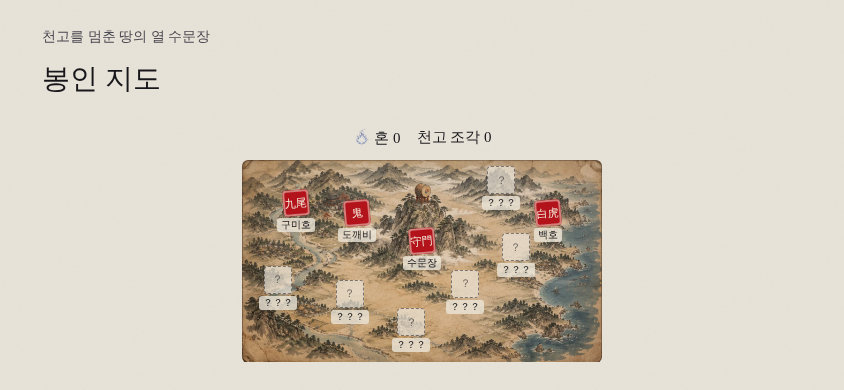
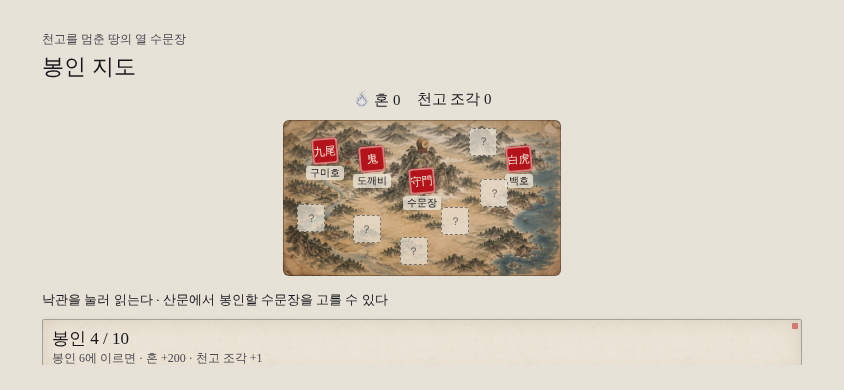
보부상 stands at the rest-stage stall; HUD chips and the 기력 panel sit on a painted hanji plate; pet and props regraded to the ink world but kept readable; seal under 천고 on top; camera no longer shows paper below the ground; boards fit short landscape screens; dead 수련 깨치기 and 주모 code removed; 고른 숨 now d
Claude-Session: https://claude.ai/code/session_01Rc1cVb1vkCQfdutHoe7fgf

diff --git a/js/game.js b/js/game.js
@@ -2,7 +2,7 @@
 (() => {
 "use strict";
 const T = 32;
-const ASSET_V = "142";   // bump when any picture changes: the service worker then fetches the new json and webp together
+const ASSET_V = "143";   // bump when any picture changes: the service worker then fetches the new json and webp together
 const $ = id => document.getElementById(id);
 const cv = $("cv"); let ctx = cv.getContext("2d", { alpha: false });   // let: the ground is baked by pointing ctx at an offscreen canvas for a moment   // opaque canvas: cheaper to composite on phones
 let W = 0, H = 0, DPR = 1, SCALE = 1;
@@ -181,7 +181,6 @@ CHOSIK_BY = Object.fromEntries(CHOSIK.map(c => [c.id, c]));
 const nodeOf = id => CHOSIK.find(c => c.id === id && c.tree);
 const treeNodesHeld = () => (run.perks || []).filter(id => nodeOf(id));
 // 서고 수련: 0 → 3단까지, 1 → 4단까지, 2 → 합류까지 (META.treeOpen[weapon] counts what has been learned)
-const TREE_OPEN = [{ hon: TUNING.TREE_OPEN_HON[0], ms: 0, name: "3단 깨치기", desc: "모든 무기의 갈래마다 둘 중 하나를 고르는 3단이 열린다" }, { hon: TUNING.TREE_OPEN_HON[1], ms: 1, name: "4단 깨치기", desc: "모든 무기의 3단 뒤 4단이 열린다 (어느 무기든 숙련 1)" }, { hon: TUNING.TREE_OPEN_HON[2], ms: 2, name: "합류 깨치기", desc: "모든 무기에서 이웃한 두 갈래를 잇는 합류가 열린다 (어느 무기든 숙련 2)" }];
 const treeOpen = () => 3;   // every step of every tree is open from the first run (the 서고 that sold them is gone)   // learned once for every weapon (older saves: the furthest any weapon got)
 // 천고난무-오의: taking a branch's last step (4단) in this run turns the plain 천고난무 into the weapon's 오의 (and grants that branch's 오의 node)
 const ougiOpen = () => !!(run && run.ougiId);
@@ -350,7 +349,7 @@ function bossSheets(kind) { const B = BOSSES[kind]; if (!B) return []; const out
 // 로딩: nothing starts until the pictures it needs are in — a bar fills while they arrive, and a word of advice turns over
 const LD_TIPS = ["원이 점으로 닫히는 순간 베면 간파 — 무엇이든 한 번에 쓰러진다", "벽에 붙어 점프하면 벽차기, 벽차기 뒤엔 한 번 더 뛸 수 있다", "대시를 길게 누르면 무아경 — 시간이 느려지고 겨눈 곳으로 벤다",
   "북 다섯이 차면 천고난무 — 한 갈래를 끝(4단)까지 익히면 오의가 된다", "우두머리가 반짝이면 틈이다 — 그때 몰아쳐라", "땅이 붉게 갈라지면 곧 무언가 솟는다", "낭떠러지에 떨어져도 관문마다 한 번은 딛던 곳으로 돌아온다",
-  "막 휘두르면 날이 무뎌진다 — 손을 잠깐 쉬면 돌아온다", "총은 탄이 있으면 언제든 나간다 — 간파로 맞히면 탄이 다시 찬다", "쉼터에서는 숨을 고를 수 있다", "기세가 오를수록 장단도 빨라진다", "관문 과제를 이루면 등급이 오른다"];
+  "막 휘두르면 날이 무뎌진다 — 손을 잠깐 쉬면 돌아온다", "총은 탄이 있으면 언제든 나간다 — 간파로 맞히면 탄이 다시 찬다", "쉼터의 보부상에게 엽전으로 숨을 살 수 있다", "적을 여섯 할 넘게 베어야 출구 결계가 풀린다", "기세가 오를수록 장단도 빨라진다", "관문 과제를 이루면 등급이 오른다"];
 let ldTipT = null;
 function ldShow(el) { el.classList.remove("out"); el.hidden = false; const tip = $("ldTip"); if (!tip || ldTipT) return; let i = (Math.random() * LD_TIPS.length) | 0;
   const next = () => { tip.classList.add("fade"); setTimeout(() => { tip.textContent = LD_TIPS[i++ % LD_TIPS.length]; tip.classList.remove("fade"); }, 350); };
@@ -1427,7 +1426,7 @@ function routeTrail() { // the road so far drawn as a line of seals above the ca
 }
 function stepOn() { run.m++; run.choosing = null; saveRun(); nextStep(); }
 // the people on the road: who stands in the 쉼터 or the 기연, and what they say
-const NPC = { jumo: { i: 0, name: "주모", flip: true, line: "어서 오시오. 먼 길 오셨구려, 쉬었다 가시오." }, monk: { i: 1, name: "노승", line: "검이 무겁구나. 시험 하나 받아 보겠느냐." },
+const NPC = { monk: { i: 1, name: "노승", line: "검이 무겁구나. 시험 하나 받아 보겠느냐." },
   dok: { i: 2, name: "도깨비", line: "히히, 한 판 걸어 보련? 숨 내기다!" }, mudang: { i: 3, name: "무당", line: "저 무덤에 칼 한 자루가 잠들어 있소. 주인을 기다리지." },
   seonbi: { i: 4, name: "떠돌이 선비", line: "피로 쓴 글이오. 숨 하나면 이 비결을 다 읽을 수 있지." }, spring: { i: 7, name: "약수", line: "맑은 물이 솟는다." } };
 const EVENT_NPC = { blood: "seonbi", dok: "dok", grave: "mudang", monk: "monk", well: "spring", market: "dok" };
@@ -1436,7 +1435,7 @@ function buildRoadMap() { const rows = []; for (let y = 0; y < 16; y++) rows.pus
 function setupRoad() { // the small road stage: set dressing, one person to talk to, a gate out on the right
   const put = (sheet, i, tx, h, flip) => LV.dress.push({ sheet, i, x: tx * T + 16, y: 12 * T + 2, h, flip: !!flip, ay: 1 });
   let who;
-  if (run.node === "rest") { put("npc", 6, 9, 112); put("npc", 7, 26, 52); put("props2", P2.brazier, 5, 34); put("props2", P2.sacks, 17, 34); put("props2", P2.rack, 21, 44);   // 쉼터: no free rest now — the 보부상 sells breath for 엽전
+  if (run.node === "rest") { put("npc", 6, 9, 112); put("npc", 7, 26, 52); put("npc", 9, 19, 74); put("props2", P2.brazier, 5, 34); put("props2", P2.sacks, 17, 34); put("props2", P2.rack, 21, 44);   // 쉼터: no free rest now — the 보부상 sells breath for 엽전
     LV.stations = [{ id: "shop", tx: 19, h: 48, name: "보부상", act: "장터" }]; return; }
   else { const ev = run.eventId || "well"; who = EVENT_NPC[ev]; put("npc", 8, 11, 100); put("props", PROP.stoneLantern, 25, 44); if (who !== "spring") put("props", PROP.jars, 6, 30); }
   const n = NPC[who]; put("npc", n.i, 19, who === "spring" ? 54 : 64, n.flip); LV.stations = [{ id: "npc", who, tx: 19, h: 64, name: n.name, act: run.talked ? "인사" : "이야기" }];
@@ -1446,17 +1445,8 @@ function resumeStage() { state = "play"; showScreen(null); Music.resume(); hubNe
 function stageAct(st) {
   if (st.id === "shop") return shopScreen("보부상 장터", "엽전은 이 판에서만 쓴다", 1, resumeStage);
   const n = NPC[st.who];
-  if (run.talked) { toast(`${n.name} · ${run.node === "rest" ? "또 오시오." : "갈 길 가시오."}`); return; }
+  if (run.talked) { toast(`${n.name} · 갈 길 가시오.`); return; }
   run.talked = true; saveRun();
-  if (run.node === "rest") return pickScreen(n.name, n.line, [
-    { id: "breath", name: "숨 고르기", han: "息", desc: "숨 하나를 되찾는다" },
-    { id: "qi", name: "북 다듬기", han: "鼓", desc: "다음 관문을 천고 기운 가득 차서 시작한다" },
-    { id: "hon", name: "주막 일손", han: "役", desc: "혼 +15 · 대신 숨은 고르지 못한다" }], it => {
-    run.gather = 1;   // while you rest, the road ahead gathers guards
-    if (it.id === "hon") { run.honBonus = (run.honBonus || 0) + 15; toast("혼 +15 · 그사이 다음 관문에 적이 모였다"); saveRun(); resumeStage(); return; }
-    if (it.id === "breath") { run.breath = Math.min(breathCap(), run.breath + TUNING.REST_BREATH + (META.well && META.well.includes("rest1") ? 1 : 0)); toast(`숨 ${run.breath} · 그사이 다음 관문에 적이 모였다`); saveRun(); setHud(); resumeStage(); }
-    else if (it.id === "qi") { run.qiStart = 100; saveRun(); toast("북을 다듬었다 · 다음 관문은 기운 가득"); resumeStage(); }
-    else { run.cleared = "rest"; saveRun(); showChoice("stage"); } });
   const ev = EVENTS.find(e => e.id === run.eventId) || EVENTS[4];
   pickScreen(n.name, n.line, [ev.ok() ? ev : { ...ev, desc: "지금은 할 수 없다", go: () => resumeStage() }, { id: "pass", name: "지나친다", han: "行", desc: "아무것도 하지 않는다", calm: true, go: () => resumeStage() }], it => it.go());
 }
@@ -1474,7 +1464,7 @@ function addCoin(n, x, y) { if (!run || mode === "tutorial" || run.hub || !n) re
 const treasure = id => !!(run && run.treasure === id);
 // wares: consumables act at once; one 보물 is carried for the rest of the run (a new one replaces it). `hon` = opened at the 대장간 first
 const WARES = [
-  { id: "pill", name: "환약", han: "丸藥", desc: "숨 하나를 되찾는다 (살 때마다 비싸진다)", price: () => 25 + 15 * (run.pillN || 0), ok: () => run.breath < breathCap(), go: () => { run.breath++; run.pillN = (run.pillN || 0) + 1; setHud(); } },
+  { id: "pill", name: "환약", han: "丸藥", desc: "숨 하나를 되찾는다 (살 때마다 비싸진다)", price: () => 25 + 15 * (run.pillN || 0) - (META.well && META.well.includes("rest1") ? 10 : 0), ok: () => run.breath < breathCap(), go: () => { run.breath++; run.pillN = (run.pillN || 0) + 1; setHud(); } },
   { id: "charm", name: "부적", han: "符", desc: "다음 한 대를 막는다 (둘까지 지닌다)", price: 22, ok: () => (run.charm || 0) < 2, go: () => { run.charm = (run.charm || 0) + 1; } },
   { id: "sp", name: "수련서", han: "修鍊書", desc: "수련점 하나 (살 때마다 비싸진다)", price: () => 60 + 30 * (run.spBought || 0), ok: () => true, go: () => { run.sp = (run.sp || 0) + 1; run.spBought = (run.spBought || 0) + 1; } },
   { id: "powder", name: "화약통", han: "火藥", desc: "다음 관문을 천고 기운 가득 차서 시작한다", price: 25, hon: 60, ok: () => !run.qiStart, go: () => { run.qiStart = 100; } },
@@ -1559,7 +1549,6 @@ function nextGoal() { // the cheapest thing still locked in the 거점, and how 
   if (sealedN() < 10) c.push([0, `봉인 지도 ${sealedN()} / 10 · 산문에서 봉인할 수문장을 고른다`]);
   { const t = TREE_ALT[treeKey && run ? treeKey() : "hwando"] || TREE_ALT.hwando, nx = Object.values(t).flat().find(o => !(META.alts || []).includes(o.id)); if (nx) c.push([ALT_HON, `수련 후보 · ${nx.name}`]); }
   for (const [id, w] of Object.entries(WEAPONS)) if (w.cost && !w.ch && !META.weapons.includes(id)) c.push([w.cost, `무기 · ${w.name}`]);
-  const t = TREE_OPEN[treeOpen()]; if (t) c.push([t.hon, `수련 · ${t.name}`]);
   c.sort((a, b) => a[0] - b[0]); const g = c[0]; if (!g) return null;
   return META.hon >= g[0] ? `${g[1]} — 지금 거점에서 열 수 있다` : `${g[1]} — 혼 ${g[0] - META.hon} 더`;
 }
@@ -3562,6 +3551,14 @@ function bakeGround(gc, key, c, CW, top, hh, k, pal, ssn) { // paint one chunk o
   gc.set(key + "#" + c, { cv: cvs, used: performance.now() });
   while (gc.size > (MOBILE ? 4 : 10)) { let old = null; for (const [kk, v] of gc) if (!old || v.used < old[1].used) old = [kk, v]; old[1].cv.width = old[1].cv.height = 0; gc.delete(old[0]); }   // iOS frees canvas memory only when the canvas is emptied   // keep memory small: drop the stalest
 }
+const PLATE = new Image(); PLATE.src = `assets/ui-plate.webp?v=${ASSET_V}`; const INK_T = "#17161a";   // the HUD's hanji plate: ink border, paper inside — the HTML chips use the same picture
+let plateC = null;
+function plate9(x, y, w, h, b = 6) { const I = PLATE, iw = I.naturalWidth, ih = I.naturalHeight, s = 12, k = DPR;   // nine-slice: corners kept, edges and paper stretched — baked once per size
+  if (!plateC || plateC.key !== `${w}x${h}x${k}`) { const c = document.createElement("canvas"); c.width = Math.ceil(w * k); c.height = Math.ceil(h * k); const g = c.getContext("2d"); g.scale(k, k);
+    const sx = [0, s, iw - s, iw], sy = [0, s, ih - s, ih], dx = [0, b, w - b, w], dy = [0, b, h - b, h];
+    for (let i = 0; i < 3; i++) for (let j = 0; j < 3; j++) g.drawImage(I, sx[i], sy[j], sx[i + 1] - sx[i], sy[j + 1] - sy[j], dx[i], dy[j], dx[i + 1] - dx[i], dy[j + 1] - dy[j]);
+    plateC = c; plateC.key = `${w}x${h}x${k}`; }
+  ctx.drawImage(plateC, x, y, w, h); }
 const camView = { x0: 0, y0: 0, x1: 0, y1: 0 }; let padFadeT = 0;
 function render(rdt) {
   if (!paperPat) makePaper();
@@ -3574,7 +3571,7 @@ function render(rdt) {
     cam.x += (tx - cam.x) * f; cam.y += (ty - cam.y) * f;
     const lw = LV.w * T, lh = LV.h * T;
     cam.x = lw <= vw ? lw / 2 : Math.max(vw / 2, Math.min(lw - vw / 2, cam.x));
-    const maxY = lh - vh / 2 + 8; cam.y = Math.min(maxY, Math.max(Math.min(maxY, vh / 2 - 96), cam.y));
+    const maxY = lh - vh / 2; cam.y = Math.min(maxY, Math.max(Math.min(maxY, vh / 2 - 96), cam.y));
     if (PORTRAIT()) { const bottom = LV.hub ? hubRect().y + hubRect().h : lh, off = (H / 2 - padH()) / (SCALE * zoom); cam.y = bottom - off;   // the ground line sits just above the thumbs
       if (!LV.hub && lh > 17 * T) {   // a 마당 that climbs: follow the ground last stood on, so the thumbs keep the same line
         const feet = P.y + P.h; if (LV.camG == null || P.onGround || feet > LV.camG + T) LV.camG = feet; LV.camGs = LV.camGs == null ? LV.camG : LV.camGs + (LV.camG - LV.camGs) * Math.min(1, rdt * 4);
@@ -4405,16 +4402,16 @@ function drawCombatHud(pal) { // 기력 under the 숨, the chain's numeral at th
   drawOugiName(1 / 60);
   const hk = settings.hudK || 1; ctx.setTransform(DPR * hk, 0, 0, DPR * hk, 0, 0);   // 글자·HUD 크기
   if (mode !== "tutorial") { const top = Math.max(50, hudBottom() + 4) / hk, hh = momOn() ? 46 : 24;   // a wash of paper (or night) behind 기력 and 기세, so they read on any ground
-    ctx.fillStyle = pal.night ? "rgba(23,22,26,.55)" : "rgba(230,226,215,.8)"; ctx.beginPath(); if (ctx.roundRect) ctx.roundRect(8, top, 150, hh, 8); else ctx.rect(8, top, 150, hh); ctx.fill(); }
+    if (PLATE.complete && PLATE.naturalWidth) plate9(8, top, 150, hh + 6); else { ctx.fillStyle = "rgba(230,226,215,.85)"; ctx.fillRect(8, top, 150, hh); } }
   if (momOn()) { const v = run.mom || 0, t = momTier(), bx = 52, by = Math.max(72, hudBottom() + 30) / hk, sw = 19, tr = (run.trance || 0) > 0;   // 기세: five brush cells, the tier's numeral beside them
-    ctx.font = `400 ${t ? 17 : 14}px "Song Myung", serif`; ctx.textAlign = "left"; ctx.textBaseline = "middle"; ctx.fillStyle = tr ? SEAL : pal.text; ctx.globalAlpha = .85; ctx.fillText(t ? `${t}단` : "기세", 18, by + 5);
-    for (let i = 0; i < 5; i++) { const fill = Math.max(0, Math.min(1, (v - i * 100) / 100)); ctx.globalAlpha = .18; ctx.fillStyle = pal.text; ctx.fillRect(bx + i * (sw + 2), by, sw, 10);
-      if (fill > 0) { ctx.globalAlpha = .9; ctx.fillStyle = tr ? (Math.floor(performance.now() / 80) % 2 ? SEAL : "#f3c35a") : i >= 3 ? SEAL : pal.text; ctx.fillRect(bx + i * (sw + 2), by, sw * fill, 10); } }
+    ctx.font = `400 ${t ? 17 : 14}px "Song Myung", serif`; ctx.textAlign = "left"; ctx.textBaseline = "middle"; ctx.fillStyle = tr ? SEAL : INK_T; ctx.globalAlpha = .85; ctx.fillText(t ? `${t}단` : "기세", 18, by + 5);
+    for (let i = 0; i < 5; i++) { const fill = Math.max(0, Math.min(1, (v - i * 100) / 100)); ctx.globalAlpha = .18; ctx.fillStyle = INK_T; ctx.fillRect(bx + i * (sw + 2), by, sw, 10);
+      if (fill > 0) { ctx.globalAlpha = .9; ctx.fillStyle = tr ? (Math.floor(performance.now() / 80) % 2 ? SEAL : "#f3c35a") : i >= 3 ? SEAL : INK_T; ctx.fillRect(bx + i * (sw + 2), by, sw * fill, 10); } }
     ctx.globalAlpha = 1;
     if (t >= 4 || tr) { const g = ctx.createRadialGradient(W / 2, H / 2, Math.min(W, H) * .45, W / 2, H / 2, Math.max(W, H) * .7); g.addColorStop(0, "rgba(195,22,28,0)"); g.addColorStop(1, `rgba(195,22,28,${tr ? .32 : .16})`); ctx.fillStyle = g; ctx.fillRect(0, 0, W, H); } }   // 四 and up: red ink at the edges
   if (mode !== "tutorial") { const ki = Math.max(0, Math.min(1, P.ki ?? 1)), bx = 18, by = Math.max(54, hudBottom() + 10) / hk, bw = 100, bh = 12, f = SPR.mech && SPR.mech.f[MECH.bar];
     const low = ki < .25 && Math.sin(performance.now() / 90) > 0;
-    ctx.font = `400 13px "Song Myung", serif`; ctx.fillStyle = pal.text; ctx.globalAlpha = .8; ctx.fillText("기력", bx, by + bh - 1);
+    ctx.font = `400 13px "Song Myung", serif`; ctx.fillStyle = INK_T; ctx.globalAlpha = .8; ctx.fillText("기력", bx, by + bh - 1);
     const x0 = bx + 30;
     if (f) { ctx.globalAlpha = .2; ctx.drawImage(SPR.mech.img, f.x, f.y, f.w, f.h, x0, by, bw, bh);
       ctx.globalAlpha = low ? .5 : 1; ctx.save(); ctx.beginPath(); ctx.rect(x0, by - 4, bw * ki, bh + 8); ctx.clip(); ctx.drawImage(SPR.mech.img, f.x, f.y, f.w, f.h, x0, by, bw, bh); ctx.restore();
@@ -4577,13 +4574,6 @@ function bdRow(title, desc, pic, btnLabel, onBtn, disabled) {
   r.querySelector("b").textContent = title; r.querySelector("small").textContent = desc;
   if (btnLabel) { const b = document.createElement("button"); b.className = "btn"; b.textContent = btnLabel; b.disabled = !!disabled; b.addEventListener("click", onBtn); r.appendChild(b); } else r.appendChild(document.createElement("span"));
   return r;
-}
-function treeOpenScreen() { // 서고: learn the deeper steps of the trees with 혼, once for every weapon (gated by your best mastery)
-  const lv = treeOpen(), nx = TREE_OPEN[lv], ms = Math.max(0, ...Object.keys(WEAPONS).map(w => masteryLv(w)));
-  const rows = [curLine(), ...TREE_OPEN.map((o, i) => bdRow(`${i < lv ? "✓ " : ""}${o.name}`, `${o.desc} — 혼 ${o.hon}`))];
-  rows.push(bdRow(nx ? `다음 · ${nx.name}` : "모두 깨쳤다", nx ? `혼 ${nx.hon}${nx.ms ? ` · 가장 익숙한 무기 숙련 ${ms}/${nx.ms}` : ""}` : "3단·4단·합류가 모든 무기에 열려 있다", null, nx ? "깨치기" : null, () => {
-    META.hon -= nx.hon; META.treeOpen = { ...(META.treeOpen || {}), all: lv + 1 }; saveMeta(); Music.sfx("lantern"); toast(`${nx.name.replace(" 깨치기", "")}을 깨쳤다 · 모든 무기`); treeOpenScreen(); }, !nx || META.hon < nx.hon || ms < nx.ms));
-  board("수련 깨치기", "판에서 수련점으로 익히기 전에, 여기서 먼저 깨쳐 둔다", rows, [["돌아가기", resumeHub]]);
 }
 const curLine = () => { const d = document.createElement("div"); d.className = "bd-cur"; d.innerHTML = `<span><i></i> 혼 ${META.hon}</span><span>천고 조각 ${META.shard}</span>`; return d; };
 const bookCap = () => PERK_MAX;         // 비급 a 비급첩 can hold
@@ -4979,7 +4969,7 @@ const hubDeco = () => (META.deco = META.deco || { own: [], slots: {} });
 const WELL = [
   { id: "start1", name: "맑은 숨", desc: "판을 시작할 때 숨 +1", hon: 90 },
   { id: "cap1", name: "깊은 숨", desc: "숨을 담을 수 있는 그릇 +1", hon: 140 },
-  { id: "rest1", name: "고른 숨", desc: "쉼터에서 숨을 고르면 하나 더", hon: 110 },
+  { id: "rest1", name: "고른 숨", desc: "보부상의 환약이 엽전 10 싸다", hon: 110 },
   { id: "boss1", name: "결전의 숨", desc: "천고대 앞에서 숨을 넷까지 채운다", hon: 160 },
   { id: "start2", name: "트인 숨", desc: "판을 시작할 때 숨 +1 (맑은 숨 다음)", hon: 220, need: "start1" }];
 const well = id => !!(META.well && META.well.includes(id));
@@ -5152,7 +5142,7 @@ function logScreen() { // 플레이 기록: what the last runs looked like, so t
 }
 function hubReady(id) { // a red dot on the board where something can be opened right now
   const bld = b => { const B = BUILDINGS.find(o => o.id === b), nx = B && B.lv[META.bld[b] || 0]; return nx && META.hon >= (nx.hon || 0) && META.shard >= (nx.shard || 0); };
-  if (id === "hall") { const t = TREE_OPEN[treeOpen()], ms = Math.max(0, ...Object.keys(WEAPONS).map(w => masteryLv(w))); return bld("seogo") || bld("sadang") || bld("bigeup") || !!(t && META.hon >= t.hon && ms >= t.ms); }
+  if (id === "hall") return bld("seogo") || bld("bigeup");
   if (id === "forge") return bld("daejang") || bld("uibang") || Object.entries(WEAPONS).some(([w, o]) => o.cost && !o.ch && !META.weapons.includes(w) && META.hon >= o.cost);
   if (id === "well") { const nx = petNextNeed && petNextNeed(); return WELL.some(w => !well(w.id) && (!w.need || well(w.need)) && META.hon >= w.hon) || !!(META.pet && nx && nx.fed && META.pet.fed < nx.fed && (META.sum || 0) > 0); }
   return false;

diff --git a/sw.js b/sw.js
@@ -1,10 +1,10 @@
 // 천고 service worker: network-first for the game files (so updates land on the next launch),
 // cache fallback for offline play, cache-first for Google Fonts.
-const CACHE = "chungo-v157";
+const CACHE = "chungo-v158";
 const ASSETS = "chungo-assets";   // pictures and sound: kept across versions, served at once, refreshed in the background
 const CORE = ["./", "index.html", "manifest.webmanifest",
   "icons/icon-192.png", "icons/icon-512.png", "icons/apple-touch-icon.png"];
-const OPTIONAL = ["assets/far.webp", "assets/mid.webp", "assets/title.webp", "assets/tex-paper.webp", "assets/tex-stone.webp", "assets/tex-giwa.webp", "assets/tex-granite.webp", "assets/tex-slab.webp", "assets/sprites/hero.webp", "assets/sprites/hero.json", "assets/sprites/foes.webp", "assets/sprites/foes.json", "assets/sprites/objects.webp", "assets/sprites/objects.json", "assets/sprites/ui.webp", "assets/sprites/ui.json", "assets/sprites/rogue.webp", "assets/sprites/rogue.json", "assets/sprites/rogue2.webp", "assets/sprites/rogue2.json", "assets/sprites/roguea.webp", "assets/sprites/roguea.json", "assets/sprites/rogue3.webp", "assets/sprites/rogue3.json", "assets/sprites/rogue4.webp", "assets/sprites/rogue4.json", "assets/sprites/foes2.webp", "assets/sprites/foes2.json", "assets/sprites/bossA.webp", "assets/sprites/bossA.json", "assets/sprites/bossB.webp", "assets/sprites/bossB.json", "assets/sprites/bossfx.webp", "assets/sprites/bossfx.json", "assets/sprites/bossC.webp", "assets/sprites/bossC.json", "assets/sprites/bossD.webp", "assets/sprites/bossD.json", "assets/sprites/bossE.webp", "assets/sprites/bossE.json", "assets/sprites/bossF.webp", "assets/sprites/bossF.json", "assets/sprites/hero3.webp", "assets/sprites/hero3.json", "assets/sprites/herofx.webp", "assets/sprites/herofx.json", "assets/sprites/slashfx.webp", "assets/sprites/slashfx.json", "assets/sprites/perkfx.webp", "assets/sprites/perkfx.json", "assets/sprites/weapons.webp", "assets/sprites/weapons.json", "assets/sprites/chars.webp", "assets/sprites/chars.json", "assets/sprites/misc.webp", "assets/sprites/misc.json", "assets/sprites/ic0.webp", "assets/sprites/ic0.json", "assets/sprites/ic1.webp", "assets/sprites/ic1.json", "assets/sprites/ic2.webp", "assets/sprites/ic2.json", "assets/sprites/ic3.webp", "assets/sprites/ic3.json", "assets/sprites/ic4.webp", "assets/sprites/ic4.json", "assets/sprites/ic5.webp", "assets/sprites/ic5.json", "assets/sprites/ic6.webp", "assets/sprites/ic6.json", "assets/sprites/ic7.webp", "assets/sprites/ic7.json", "assets/sprites/ic8.webp", "assets/sprites/ic8.json", "assets/sprites/ic9.webp", "assets/sprites/ic9.json", "assets/sprites/ic10.webp", "assets/sprites/ic10.json", "assets/sprites/ic11.webp", "assets/sprites/ic11.json", "assets/sprites/ic12.webp", "assets/sprites/ic12.json", "assets/sprites/ic13.webp", "assets/sprites/ic13.json", "assets/sprites/ic14.webp", "assets/sprites/ic14.json", "assets/sprites/ic15.webp", "assets/sprites/ic15.json", "assets/sprites/mu.webp", "assets/sprites/mu.json", "assets/sprites/po.webp", "assets/sprites/po.json", "assets/sprites/mfx.webp", "assets/sprites/mfx.json", "assets/sprites/pfx.webp", "assets/sprites/pfx.json", "assets/sprites/vis.webp", "assets/sprites/vis.json", "assets/sprites/guide.webp", "assets/sprites/guide.json", "assets/sprites/mv0.webp", "assets/sprites/mv0.json", "assets/sprites/mv1.webp", "assets/sprites/mv1.json", "assets/sprites/mv2.webp", "assets/sprites/mv2.json", "assets/sprites/arms.webp", "assets/sprites/arms.json", "assets/sprites/bcal.webp", "assets/sprites/bcal.json", "assets/sprites/bvfx.webp", "assets/sprites/bvfx.json", "assets/sprites/bname.webp", "assets/sprites/bname.json", "assets/sprites/mvrun.webp", "assets/sprites/mvrun.json", "assets/sprites/mech.webp", "assets/sprites/mech.json", "assets/sprites/foes3.webp", "assets/sprites/foes3.json", "assets/sprites/kfx.webp", "assets/sprites/kfx.json", "assets/sprites/kring.webp", "assets/sprites/kring.json", "assets/sprites/wfx.webp", "assets/sprites/wfx.json", "assets/sprites/ic16.webp", "assets/sprites/ic16.json", "assets/sprites/grun2.webp", "assets/sprites/grun2.json", "assets/sprites/pet.webp", "assets/sprites/pet.json", "assets/sprites/npc.webp", "assets/sprites/npc.json", "assets/sprites/muz.webp", "assets/sprites/muz.json", "assets/sprites/ogA.webp", "assets/sprites/ogA.json", "assets/sprites/ogB.webp", "assets/sprites/ogB.json", "assets/sprites/hub.webp", "assets/sprites/hub.json", "assets/lore.webp", "assets/hubscene.webp?v=10029700", "assets/ld-bg-wide.webp", "assets/ld-bg-tall.webp", "assets/ld-tower.webp", "assets/ld-hero.webp", "assets/hubground.webp", "assets/sprites/mapobj.webp", "assets/sprites/mapobj.json", "assets/sprites/md0.webp", "assets/sprites/md0.json", "assets/sprites/md1.webp", "assets/sprites/md1.json", "assets/sprites/md2.webp", "assets/sprites/md2.json", "assets/sprites/md3.webp", "assets/sprites/md3.json", "assets/sprites/md4.webp", "assets/sprites/md4.json"];
+const OPTIONAL = ["assets/far.webp", "assets/mid.webp", "assets/title.webp", "assets/tex-paper.webp", "assets/tex-stone.webp", "assets/tex-giwa.webp", "assets/tex-granite.webp", "assets/tex-slab.webp", "assets/sprites/hero.webp", "assets/sprites/hero.json", "assets/sprites/foes.webp", "assets/sprites/foes.json", "assets/sprites/objects.webp", "assets/sprites/objects.json", "assets/sprites/ui.webp", "assets/sprites/ui.json", "assets/sprites/rogue.webp", "assets/sprites/rogue.json", "assets/sprites/rogue2.webp", "assets/sprites/rogue2.json", "assets/sprites/roguea.webp", "assets/sprites/roguea.json", "assets/sprites/rogue3.webp", "assets/sprites/rogue3.json", "assets/sprites/rogue4.webp", "assets/sprites/rogue4.json", "assets/sprites/foes2.webp", "assets/sprites/foes2.json", "assets/sprites/bossA.webp", "assets/sprites/bossA.json", "assets/sprites/bossB.webp", "assets/sprites/bossB.json", "assets/sprites/bossfx.webp", "assets/sprites/bossfx.json", "assets/sprites/bossC.webp", "assets/sprites/bossC.json", "assets/sprites/bossD.webp", "assets/sprites/bossD.json", "assets/sprites/bossE.webp", "assets/sprites/bossE.json", "assets/sprites/bossF.webp", "assets/sprites/bossF.json", "assets/sprites/hero3.webp", "assets/sprites/hero3.json", "assets/sprites/herofx.webp", "assets/sprites/herofx.json", "assets/sprites/slashfx.webp", "assets/sprites/slashfx.json", "assets/sprites/perkfx.webp", "assets/sprites/perkfx.json", "assets/sprites/weapons.webp", "assets/sprites/weapons.json", "assets/sprites/chars.webp", "assets/sprites/chars.json", "assets/sprites/misc.webp", "assets/sprites/misc.json", "assets/sprites/ic0.webp", "assets/sprites/ic0.json", "assets/sprites/ic1.webp", "assets/sprites/ic1.json", "assets/sprites/ic2.webp", "assets/sprites/ic2.json", "assets/sprites/ic3.webp", "assets/sprites/ic3.json", "assets/sprites/ic4.webp", "assets/sprites/ic4.json", "assets/sprites/ic5.webp", "assets/sprites/ic5.json", "assets/sprites/ic6.webp", "assets/sprites/ic6.json", "assets/sprites/ic7.webp", "assets/sprites/ic7.json", "assets/sprites/ic8.webp", "assets/sprites/ic8.json", "assets/sprites/ic9.webp", "assets/sprites/ic9.json", "assets/sprites/ic10.webp", "assets/sprites/ic10.json", "assets/sprites/ic11.webp", "assets/sprites/ic11.json", "assets/sprites/ic12.webp", "assets/sprites/ic12.json", "assets/sprites/ic13.webp", "assets/sprites/ic13.json", "assets/sprites/ic14.webp", "assets/sprites/ic14.json", "assets/sprites/ic15.webp", "assets/sprites/ic15.json", "assets/sprites/mu.webp", "assets/sprites/mu.json", "assets/sprites/po.webp", "assets/sprites/po.json", "assets/sprites/mfx.webp", "assets/sprites/mfx.json", "assets/sprites/pfx.webp", "assets/sprites/pfx.json", "assets/sprites/vis.webp", "assets/sprites/vis.json", "assets/sprites/guide.webp", "assets/sprites/guide.json", "assets/sprites/mv0.webp", "assets/sprites/mv0.json", "assets/sprites/mv1.webp", "assets/sprites/mv1.json", "assets/sprites/mv2.webp", "assets/sprites/mv2.json", "assets/sprites/arms.webp", "assets/sprites/arms.json", "assets/sprites/bcal.webp", "assets/sprites/bcal.json", "assets/sprites/bvfx.webp", "assets/sprites/bvfx.json", "assets/sprites/bname.webp", "assets/sprites/bname.json", "assets/sprites/mvrun.webp", "assets/sprites/mvrun.json", "assets/sprites/mech.webp", "assets/sprites/mech.json", "assets/sprites/foes3.webp", "assets/sprites/foes3.json", "assets/sprites/kfx.webp", "assets/sprites/kfx.json", "assets/sprites/kring.webp", "assets/sprites/kring.json", "assets/sprites/wfx.webp", "assets/sprites/wfx.json", "assets/sprites/ic16.webp", "assets/sprites/ic16.json", "assets/sprites/grun2.webp", "assets/sprites/grun2.json", "assets/sprites/pet.webp", "assets/sprites/pet.json", "assets/sprites/npc.webp", "assets/sprites/npc.json", "assets/sprites/muz.webp", "assets/sprites/muz.json", "assets/sprites/ogA.webp", "assets/sprites/ogA.json", "assets/sprites/ogB.webp", "assets/sprites/ogB.json", "assets/sprites/hub.webp", "assets/sprites/hub.json", "assets/lore.webp", "assets/hubscene.webp?v=10029700", "assets/ld-bg-wide.webp", "assets/ld-bg-tall.webp", "assets/ld-tower.webp", "assets/ld-hero.webp", "assets/hubground.webp", "assets/sprites/mapobj.webp", "assets/sprites/mapobj.json", "assets/sprites/md0.webp", "assets/sprites/md0.json", "assets/sprites/md1.webp", "assets/sprites/md1.json", "assets/sprites/md2.webp", "assets/sprites/md2.json", "assets/sprites/md3.webp", "assets/sprites/md3.json", "assets/sprites/md4.webp", "assets/sprites/md4.json", "assets/ui-plate.webp", "assets/sealmap.webp"];
 
 self.addEventListener("install", e => {
   e.waitUntil(caches.open(CACHE).then(async c => {

diff --git a/index.html b/index.html
@@ -11,8 +11,8 @@
 <meta name="apple-mobile-web-app-status-bar-style" content="black-translucent">
 <meta name="apple-mobile-web-app-title" content="천고">
 <link rel="manifest" href="manifest.webmanifest">
-<link rel="icon" href="icons/icon-192.png?v=10142500">
-<link rel="apple-touch-icon" href="icons/apple-touch-icon.png?v=10142500">
+<link rel="icon" href="icons/icon-192.png?v=10142600">
+<link rel="apple-touch-icon" href="icons/apple-touch-icon.png?v=10142600">
 <link rel="preconnect" href="https://fonts.googleapis.com">
 <link rel="preconnect" href="https://fonts.gstatic.com" crossorigin>
 <link rel="stylesheet" href="https://fonts.googleapis.com/css2?family=Song+Myung&display=swap">
@@ -20,7 +20,7 @@
 <link rel="stylesheet" href="https://fonts.googleapis.com/css2?family=Nanum+Myeongjo&display=swap&text=%E4%B8%80%E4%B8%89%E4%B8%8A%E4%B8%8B%E4%B8%8D%E4%B8%99%E4%B8%9E%E4%B8%AD%E4%B8%B8%E4%B8%B9%E4%B8%BB%E4%B9%99%E4%B9%9D%E4%BA%82%E4%BA%8C%E4%BA%94%E4%BA%95%E4%BA%AD%E4%BF%83%E4%BF%AE%E5%81%87%E5%81%9C%E5%83%A7%E5%85%89%E5%85%A5%E5%85%A9%E5%85%AD%E5%85%B5%E5%85%B7%E5%86%A4%E5%86%B6%E5%86%B7%E5%87%8C%E5%88%80%E5%88%83%E5%88%86%E5%88%87%E5%88%91%E5%88%9D%E5%88%BA%E5%89%9B%E5%8A%8D%E5%8A%9B%E5%8A%9F%E5%8B%95%E5%8B%9D%E5%8B%A2%E5%8D%83%E5%8D%B4%E5%8D%B7%E5%8E%84%E5%8F%8D%E5%8F%A3%E5%8F%AF%E5%90%8D%E5%90%B8%E5%91%B5%E5%91%BD%E5%9B%9B%E5%9B%9E%E5%9C%B0%E5%9D%90%E5%A0%82%E5%A1%94%E5%A1%9E%E5%A2%83%E5%A2%93%E5%A2%9C%E5%A3%81%E5%A3%87%E5%A3%9E%E5%A4%A7%E5%A4%A9%E5%A4%B7%E5%A5%A7%E5%A5%AA%E5%A5%B3%E5%A6%99%E5%AD%97%E5%AD%A4%E5%AE%88%E5%AE%97%E5%AF%82%E5%AF%9E%E5%B0%84%E5%B0%87%E5%B0%8E%E5%B0%BE%E5%B1%88%E5%B1%B1%E5%B6%BA%E5%B7%AB%E5%B7%AE%E5%B8%B3%E5%B8%B6%E5%B9%95%E5%B9%B3%E5%B9%BB%E5%BA%AB%E5%BC%93%E5%BC%95%E5%BD%88%E5%BD%B1%E5%BE%8B%E5%BE%90%E5%BE%91%E5%BF%83%E5%BF%85%E5%BF%B5%E6%80%92%E6%80%A5%E6%81%AF%E6%87%89%E6%88%90%E6%88%B0%E6%88%BF%E6%89%80%E6%89%87%E6%89%8B%E6%89%93%E6%8B%8D%E6%8B%94%E6%8C%81%E6%8D%AE%E6%8E%A5%E6%8E%A8%E6%8F%9B%E6%93%8A%E6%94%B6%E6%95%A3%E6%96%A4%E6%96%AC%E6%96%B7%E6%97%8B%E6%98%87%E6%98%8E%E6%98%9F%E6%9A%B4%E6%9B%89%E6%9B%B8%E6%9C%88%E6%9C%9B%E6%9C%AC%E6%9D%BF%E6%9E%97%E6%A1%B6%E6%A2%85%E6%A2%AF%E6%A5%AD%E6%A7%8C%E6%A7%8D%E6%A8%93%E6%A9%9F%E6%AD%A2%E6%AD%A3%E6%AD%A5%E6%AD%A6%E6%AD%B8%E6%AD%BB%E6%AE%98%E6%AE%BA%E6%AE%BF%E6%B0%A3%E6%B0%B4%E6%B1%BA%E6%B3%89%E6%B3%95%E6%B4%BE%E6%B5%81%E6%B7%B1%E6%B7%B5%E6%B8%A1%E6%BA%96%E6%BB%85%E6%BB%91%E6%BB%BF%E6%BD%9B%E6%BF%83%E6%BF%A4%E7%81%AB%E7%82%8E%E7%82%B8%E7%83%8F%E7%84%A1%E7%84%B0%E7%85%99%E7%85%A7%E7%86%9F%E7%86%B1%E7%87%92%E7%87%95%E7%88%86%E7%89%8C%E7%8B%82%E7%8B%90%E7%8B%99%E7%8D%A8%E7%8D%AC%E7%8E%84%E7%8E%8B%E7%92%B0%E7%94%95%E7%94%9F%E7%94%B0%E7%94%B2%E7%96%BE%E7%99%BB%E7%99%BC%E7%99%BD%E7%9B%9F%E7%9B%A1%E7%9B%B8%E7%9C%8B%E7%9C%BC%E7%9D%80%E7%9E%AC%E7%9F%AD%E7%9F%B3%E7%A0%B2%E7%A0%B4%E7%A2%91%E7%A5%9E%E7%A5%A0%E7%A7%98%E7%A9%BA%E7%AA%81%E7%AA%9F%E7%AB%B9%E7%AC%88%E7%AC%A6%E7%AC%AC%E7%AD%92%E7%AE%A1%E7%AE%AD%E7%B4%85%E7%B5%82%E7%B5%90%E7%B5%B2%E7%B5%B6%E7%B6%AD%E7%B6%B2%E7%B6%B5%E7%B7%A3%E7%B7%B4%E7%B8%9B%E7%B8%AE%E7%B9%A9%E7%BA%8C%E7%BD%A1%E7%BD%AE%E7%BE%85%E7%BE%A9%E7%BF%94%E7%BF%BC%E8%81%B2%E8%83%8E%E8%84%9A%E8%87%BA%E8%88%9E%E8%8A%B1%E8%90%AC%E8%90%BD%E8%93%84%E8%97%A5%E8%99%8E%E8%99%95%E8%99%9B%E8%99%9F%E8%9E%AD%E8%A1%80%E8%A1%8C%E8%A1%93%E8%A1%9D%E8%A1%A3%E8%A2%96%E8%A3%82%E8%A5%B2%E8%A6%81%E8%A7%92%E8%A7%A3%E8%AA%93%E8%AA%98%E8%AA%BF%E8%AD%B7%E8%B0%B7%E8%B1%B8%E8%B3%AD%E8%B5%A4%E8%B5%B0%E8%B6%8A%E8%B6%B3%E8%B7%9D%E8%B7%A1%E8%B7%AF%E8%B7%B3%E8%B8%8F%E8%BA%8D%E8%BA%AB%E8%BB%8A%E8%BB%8D%E8%BC%95%E8%BC%AA%E8%BF%8E%E8%BF%91%E8%BF%94%E8%BF%BD%E9%80%86%E9%80%90%E9%80%9F%E9%80%A3%E9%81%8E%E9%81%A0%E9%82%84%E9%87%8C%E9%87%8D%E9%87%91%E9%88%B4%E9%8A%80%E9%8A%83%E9%8D%8A%E9%8D%9B%E9%8E%96%E9%8E%AD%E9%8F%A1%E9%90%B5%E9%95%B7%E9%96%80%E9%96%83%E9%96%93%E9%96%A3%E9%97%9C%E9%98%B2%E9%99%8D%E9%99%A3%E9%99%A4%E9%9A%AA%E9%9B%99%E9%9B%A2%E9%9B%A8%E9%9B%B2%E9%9B%B6%E9%9B%B7%E9%9B%BB%E9%9C%86%E9%9C%87%E9%9C%A7%E9%9C%B9%E9%9D%82%E9%9D%88%E9%9D%91%E9%9D%9C%E9%9D%A2%E9%A2%A8%E9%A3%9B%E9%A3%9F%E9%A6%99%E9%A6%AC%E9%A8%B0%E9%AA%A8%E9%AC%BC%E9%AD%82%E9%AD%9A%E9%B3%A5%E9%B3%B6%E9%B5%B2%E9%B6%B4%E9%B7%B9%E9%BB%91%E9%BC%93%E9%BD%8A%E9%BE%8D">
 <link rel="preload" as="image" href="assets/load-wide.webp" media="(orientation: landscape)">
 <link rel="preload" as="image" href="assets/load-tall.webp" media="(orientation: portrait)">
-<link rel="stylesheet" href="style.css?v=10142500">
+<link rel="stylesheet" href="style.css?v=10142600">
 <link rel="preload" as="image" href="assets/ld-bg-wide.webp" media="(orientation: landscape)"><link rel="preload" as="image" href="assets/ld-bg-tall.webp" media="(orientation: portrait)">
 </head>
 <body>
@@ -180,11 +180,11 @@
   (ld.querySelector(".ld-in") || ld).appendChild(b); }
   window.addEventListener("error", function () { setTimeout(rescue, 1500); }); setTimeout(rescue, 25000); })();
 </script>
-<script src="js/tuning.js?v=10142500"></script>
-<script src="js/content.js?v=10142500"></script>
-<script src="js/data.js?v=10142500"></script>
-<script src="js/music.js?v=10142500"></script>
-<script src="js/game.js?v=10142500"></script>
+<script src="js/tuning.js?v=10142600"></script>
+<script src="js/content.js?v=10142600"></script>
+<script src="js/data.js?v=10142600"></script>
+<script src="js/music.js?v=10142600"></script>
+<script src="js/game.js?v=10142600"></script>
 <script>
 if ("serviceWorker" in navigator && (location.protocol === "https:" || location.hostname === "localhost")) {
   window.addEventListener("load", () => navigator.serviceWorker.register("sw.js", { updateViaCache: "none" }).then(r => r.update()).catch(() => {}));

diff --git a/style.css b/style.css
@@ -315,9 +315,9 @@ body.padEdit #stickZone, body.padEdit #swipeZone { pointer-events: none; }
 #loading .ld-line { display: block; width: 72%; height: 3px; margin-top: 6px; border-radius: 2px; background: linear-gradient(90deg, rgba(23,22,26,0), #17161a 18%, #17161a 70%, #a8141b 92%, rgba(168,20,27,0));
   transform-origin: left center; animation: ldLine .9s 1.15s cubic-bezier(.6,0,.2,1) both; }
 @keyframes ldLine { from { transform: scaleX(0); opacity: .3; } to { transform: scaleX(1); opacity: .85; } }
-#loading .ld-seal { position: absolute; right: -.1em; top: .25em; display: grid; place-items: center; width: clamp(26px, 5.2vmin, 44px); aspect-ratio: .78; padding: 2px; background: #b3141c; color: #f4ecdb; border-radius: 3px;
+#loading .ld-seal { position: absolute; z-index: 3; right: -.2em; bottom: -.15em; display: grid; place-items: center; width: clamp(26px, 5.2vmin, 44px); aspect-ratio: .78; padding: 2px; background: #b3141c; color: #f4ecdb; border-radius: 3px;
   font-family: var(--f-head); font-weight: 400; font-size: clamp(12px, 2.4vmin, 20px); line-height: 1.05; box-shadow: inset 0 0 0 1.5px rgba(244,236,219,.55); transform: rotate(-6deg);
-  animation: ldStamp .38s 1.9s cubic-bezier(.3,1.6,.5,1) both; mix-blend-mode: multiply; }
+  animation: ldStamp .38s 1.9s cubic-bezier(.3,1.6,.5,1) both; }
 #loading .ld-seal span { display: block; }
 @keyframes ldStamp { from { opacity: 0; transform: rotate(-6deg) scale(2.2); } to { opacity: .95; transform: rotate(-6deg) scale(1); } }
 #loading .ld-read { font-family: var(--f-head, serif); font-size: 13px; letter-spacing: .14em; color: rgba(23,22,26,.7); text-shadow: 0 0 10px rgba(236,230,216,.95); animation: ldFade 1s 2s both; }
@@ -559,3 +559,12 @@ body.portrait #hCoin { order: 4; } body.portrait.ui-ready #hCoin { padding-inlin
 .seal-pt.on i { border: 0; background: #b3141c; color: #f4ecdb; box-shadow: inset 0 0 0 2px rgba(244,236,219,.5); transform: rotate(-5deg); }
 .seal-pt span { font-size: clamp(10px, 1.9vmin, 13px); padding: 0 4px; background: rgba(236,230,216,.8); border-radius: 3px; white-space: nowrap; }
 .seal-lore { margin: 4px 0 8px; font-size: 13px; line-height: 1.5; color: var(--ink); min-height: 2.6em; }
+/* HUD 패: 먹 테두리를 두른 한지 패 위에 글씨를 올려 어떤 배경(바위·안개·밤)에서도 읽히게 */
+.ui-ready #hud > .hl, .ui-ready #hud .t, .ui-ready #hBreath, .ui-ready #hCut, .ui-ready #hCoin { background: none; border: 6px solid transparent; border-image: url("assets/ui-plate.webp") 12 fill / 6px stretch; border-radius: 0; padding: 1px 8px; color: #17161a; }
+.night #hud > .hl, .night #hud .t, .night #hBreath b, .night #hCut, .night #hCoin { color: #17161a; }
+.night #hBreath i { filter: none; } .night #hBreath i.lost { background: rgba(60,56,50,.35); }
+.night #hCut.open b, .night #hCut.open small, .night #hCoin small { color: #17161a; } .night #hCoin b { color: #7a5508; }
+body.inhub #hud .hl { border: 0; border-left: 3px solid #c3161c; border-image: none; }
+@media (max-height: 500px) { .seal-map { width: min(100%, calc(40vh * 16 / 9)); } .seal-lore { min-height: 0; margin: 2px 0 4px; } }
+.seal-pt:not(.on) span { display: none; }   /* 봉인 못 한 자리는 낙관 칸만: 이름표 ？？？가 서로 겹치지 않게 */
+@media (max-height: 500px) { .panel.board { gap: 4px; padding-top: max(6px, env(safe-area-inset-top)); } .panel.board h2 { font-size: 22px; margin: 0; } .panel.board .ord-s { font-size: 12px; } #bdBody { margin: 4px 0; gap: 6px; } }   /* 가로 폰: 제목은 작게, 내용이 한 화면에 들도록 */

diff --git a/_review/r67_perf.js b/_review/r67_perf.js
@@ -1,0 +1,13 @@
+// frame cost: run right through a gate for a few seconds with the CPU slowed 4x (a mid phone) and profile which functions take the time
+const { open, RUN } = require('./lib');
+(async () => { const { b, p, errs } = await open({ vp: { width: 932, height: 430 }, mobile: true, run: RUN('hwando', { m: 2, seed: 5 }) });
+  const cdp = await p.context().newCDPSession(p); await cdp.send('Emulation.setCPUThrottlingRate', { rate: 4 });
+  await cdp.send('Profiler.enable'); await cdp.send('Profiler.start');
+  const ft = await p.evaluate(() => new Promise(res => { const t = []; let last = performance.now(), n = 0; window.dispatchEvent(new KeyboardEvent('keydown', { code: 'ArrowRight', key: 'ArrowRight' }));
+    const f = now => { t.push(now - last); last = now; if (++n % 40 === 0) { window.dispatchEvent(new KeyboardEvent('keydown', { code: 'KeyZ', key: 'z' })); setTimeout(() => window.dispatchEvent(new KeyboardEvent('keyup', { code: 'KeyZ', key: 'z' })), 60); } if (n < 300) requestAnimationFrame(f); else res(t); }; requestAnimationFrame(f); }));
+  const { profile } = await cdp.send('Profiler.stop');
+  const self = {}; const dt = profile.timeDeltas; const byId = new Map(profile.nodes.map(n => [n.id, n]));
+  profile.samples.forEach((id, i) => { const n = byId.get(id), k = `${n.callFrame.functionName || '(anon)'}:${n.callFrame.lineNumber + 1}`; self[k] = (self[k] || 0) + (dt[i] || 0); });
+  const tot = Object.values(self).reduce((a, c) => a + c, 0);
+  const top = Object.entries(self).sort((a, c) => c[1] - a[1]).slice(0, 18).map(([k, v]) => `${(v / tot * 100).toFixed(1)}% ${k}`);
+  ft.sort((a, c) => a - c); console.log('median', ft[150].toFixed(1), 'p90', ft[270].toFixed(1), 'max', ft[299].toFixed(1)); console.log(top.join('\n')); console.log(errs); await b.close(); })();

diff --git a/_review/r66_hud.js b/_review/r66_hud.js
@@ -1,0 +1,9 @@
+const { open, RUN } = require('./lib');
+(async () => { const out = [];
+  for (const [tag, vp, mobile, o] of [['gate', { width: 932, height: 430 }, true, { m: 1, seed: 7, coin: 4 }], ['rest', { width: 932, height: 430 }, true, { m: 1, seed: 7, node: 'rest', coin: 60 }], ['port', { width: 430, height: 932 }, true, { m: 2, seed: 5, coin: 12 }], ['pc', { width: 1280, height: 720 }, false, { m: 3, seed: 9 }]]) {
+    const { b, p, errs } = await open({ vp, mobile, run: RUN('hwando', o) });
+    if (tag === 'rest') { await p.evaluate(() => __dbg.tp(15, 11)); } else await p.evaluate(() => __dbg.tp(8, 9));
+    await p.waitForTimeout(1500);
+    const gap = await p.evaluate(() => { const c = document.getElementById('cv').getBoundingClientRect(); return [c.width, c.height, innerWidth, innerHeight]; });
+    await p.screenshot({ path: `_review/shots/hud_${tag}.png` }); out.push([tag, gap, errs]); await b.close(); }
+  console.log(JSON.stringify(out)); })();

diff --git a/_review/r65_loading.js b/_review/r65_loading.js
@@ -1,0 +1,5 @@
+const { chromium } = require('/opt/node-tools/node_modules/playwright');
+(async () => { const b = await chromium.launch(); for (const [tag, vp] of [['land', { width: 932, height: 430 }], ['port', { width: 430, height: 932 }]]) {
+  const p = await (await b.newContext({ viewport: vp, serviceWorkers: 'block', isMobile: true, hasTouch: true })).newPage();
+  await p.goto('http://localhost:8765/'); await p.waitForTimeout(1500); await p.evaluate(() => { const l = document.getElementById('loading'); l.hidden = false; l.style.cssText = 'display:block;opacity:1;visibility:visible'; l.className = ''; }); await p.waitForTimeout(2600); await p.screenshot({ path: `_review/shots/load_${tag}.png` }); }
+  await b.close(); })();

diff --git a/_review/peddler_cut.py b/_review/peddler_cut.py
@@ -1,0 +1,29 @@
+# 보부상: cut the one figure on white and append it to the npc sheet as frame 9 (same grade as npc_cut.py)
+import json, sys, numpy as np
+from PIL import Image
+from scipy import ndimage
+S = sys.argv[1]   # folder holding npc_orig.webp/json (the sheet before this frame)
+PAPER = np.array([234, 226, 210], np.float32)
+a = np.asarray(Image.open('assets/raw/peddler.png').convert('RGB')).astype(np.float32)
+mn = a.min(2); sat = a.max(2) - mn; bgish = (mn > 228) & (sat < 22)
+lab, _ = ndimage.label(bgish); edge = set(np.unique(np.concatenate([lab[0], lab[-1], lab[:, 0], lab[:, -1]]))) - {0}
+fg = ndimage.binary_opening(~np.isin(lab, list(edge)), iterations=1)
+l2, n = ndimage.label(fg); sizes = ndimage.sum(fg, l2, range(1, n + 1)); fg = np.isin(l2, [i + 1 for i, s in enumerate(sizes) if s > 400])
+l3, n3 = ndimage.label(bgish & fg)
+if n3: sizes = ndimage.sum(bgish & fg, l3, range(1, n3 + 1)); fg &= ~np.isin(l3, [i + 1 for i, s in enumerate(sizes) if s > 900])
+alpha = np.clip((ndimage.gaussian_filter(fg.astype(np.float32), .7) - .15) / .7, 0, 1)
+lum = a.mean(2, keepdims=True); col = a * .82 + lum * .18
+w = np.clip((lum - 150) / 105, 0, 1); col = (col * (1 - w * .8) + (col / 255 * PAPER) * (w * .8)) * .72
+band = (alpha > 0) & (alpha < .99); col[band] = col[band] * .85
+col = 255 * (col / 255) ** 1.35   # mid-tones down: light cloth must not melt into the light paper
+rim = np.clip(ndimage.gaussian_filter(ndimage.binary_dilation(alpha > .5, iterations=4).astype(np.float32), 1.2) - alpha, 0, 1)   # a thin ink outline, like the brush line round the game's own figures
+col = col * (1 - rim[..., None]) + np.array([40, 36, 34.]) * rim[..., None]; alpha = np.maximum(alpha, rim * .85)
+ys, xs = np.where(alpha > .05)
+im = Image.fromarray(np.dstack([np.clip(col, 0, 255), alpha * 255]).astype(np.uint8)[ys.min():ys.max() + 1, xs.min():xs.max() + 1], 'RGBA')
+k = 240 / im.height; im = im.resize((round(im.width * k), 240), Image.LANCZOS)
+sheet = Image.open(f'{S}/npc_orig.webp').convert('RGBA'); fr = json.load(open(f'{S}/npc_orig.json'))[:9]
+x = max(f['x'] + f['w'] for f in fr) + 2
+out = Image.new('RGBA', (x + im.width, 240), (0, 0, 0, 0)); out.paste(sheet.crop((0, 0, x - 2, 240)), (0, 0)); out.paste(im, (x, 0))
+fr.append({"x": x, "y": 0, "w": im.width, "h": 240})
+out.save('assets/sprites/npc.webp', quality=88, method=6); json.dump(fr, open('assets/sprites/npc.json', 'w'), separators=(',', ':'))
+p = Image.new('RGBA', out.size, (214, 206, 188, 255)); p.alpha_composite(out); p.convert('RGB').save(f'{S}/npc_new.png'); print(fr[-1])

diff --git a/_review/map_cut.py b/_review/map_cut.py
@@ -20,14 +20,13 @@ def cut(name, maxh=240):
   shape = np.clip((ndimage.gaussian_filter(fg.astype(np.float32), .7) - .15) / .7, 0, 1)
   # colour-to-alpha against the white paper: light paint lets the game's paper through, ink stays solid — no white rims or white pockets left
   d = (255 - a.min(2)) / 255; cta = np.clip(d / .12, 0, 1)   # only paper-white goes clear: painted greys stay solid, like the game's own pines and rocks
-  alpha = shape * cta
-  safe = np.maximum(cta, 1e-3)[..., None]
+  inner = ndimage.gaussian_filter(ndimage.binary_erosion(fg, iterations=6).astype(np.float32), 2)   # inside the outline the object is solid: no see-through ghost posts
+  alpha = shape * np.maximum(cta, inner)
+  safe = np.maximum(np.maximum(cta, inner), 1e-3)[..., None]
   col = np.clip((a - 255 * (1 - safe)) / safe, 0, 255)
-  # ink-wash grade: most of the colour drained to warm grey ink, a little kept, contrast eased so they sit in the painted world
-  # ink-wash grade, like the painted pines and rocks of the stage: almost all colour drained to warm grey ink,
-  # values pressed into the mid range so nothing glares white against the paper or the dark rock
-  lum = col.mean(2, keepdims=True); L2 = 58 + lum * .56; ink = L2 * np.array([1.0, .965, .9])
-  col = col * .12 * (L2 / np.maximum(lum, 1)) + ink * .88
+  # ink-wash grade that still reads: colour kept at 45%, blacks stay ink-dark, whites pressed to paper, a warm wash over all
+  lum = col.mean(2, keepdims=True); L2 = 30 + lum * .78
+  col = (L2 + (col - lum) * .45) * np.array([1.0, .97, .91])
   big = ndimage.binary_dilation(alpha > .05, iterations=5); lab, n = ndimage.label(big)
   objs = ndimage.find_objects(lab); areas = ndimage.sum(alpha > .05, lab, range(1, n + 1))
   keep = sorted([i for i in range(n) if areas[i] > 1500], key=lambda i: objs[i][1].start)

diff --git a/_review/pet_cut.py b/_review/pet_cut.py
@@ -27,5 +27,8 @@ lum = col.mean(2, keepdims=True)
 paper = np.array([236, 226, 204.])
 t = np.clip((lum - 200) / 55, 0, 1)
 col = col * (1 - t) + (col * paper / 255) * t
+# ink-wash grade like the stage: colour at 55%, blacks to soft ink, a warm paper wash, so the beast sits in the painting
+lum = col.mean(2, keepdims=True)
+col = np.clip((24 + lum * .86 + (col - lum) * .55) * np.array([1.0, .97, .92]), 0, 255)
 out = np.dstack([col, np.clip(na, 0, 1) * 255]).astype(np.uint8)
 Image.fromarray(out, 'RGBA').save('assets/sprites/pet.webp', 'WEBP', quality=92, method=6)

diff --git a/GAME_REVIEW_REPORT.md b/GAME_REVIEW_REPORT.md
@@ -666,3 +666,13 @@
 - 봉인 지도: 가로 폰에서 지도가 늘어나던 문제 수정 (폭을 높이 기준으로 제한).
 - 소품: 관문당 장면 최대 3곳, 간격 24칸, 1~2개씩. 그림은 먹빛·종이색으로 재보정.
 - 영물: 시트 가장자리의 흰 테두리·흰 점을 투명하게, 안쪽 흰색은 종이색으로 (_review/pet_cut.py).
+
+## 변경 기록 — 보부상·HUD 패·영물/소품 톤·화면 맞춤 (2026-10-14 오후)
+- 보부상: 쉼터에 사람이 없던 문제 — 보부상 그림을 새로 그려 장터 자리에 세움 (npc 시트 9번, 얇은 먹 테두리).
+- HUD: 먹 테두리 한지 패(새 그림)를 모든 HUD 칸(관문·숨·엽전·벤 적·시간)과 기력/기세 판에 깔아 바위·안개·밤 어디서나 읽힘.
+- 영물: 색 55%로 낮추고 먹·종이 톤 보정 (_review/pet_cut.py).
+- 소품: 지난번 보정이 너무 바래 유령처럼 보이던 문제 — 색 45% 유지, 검정은 먹색, 안쪽은 불투명하게 (_review/map_cut.py).
+- 로딩: 天鼓 낙관을 글씨 아래쪽으로, 맨 위 레이어로.
+- 화면: 카메라가 땅 아래 8px 빈 종이를 보여주던 문제 수정. 가로 폰에서 판(보드) 제목을 줄여 한 화면에 들게, 봉인 지도 이름표 겹침 정리.
+- 버그: 약수 '고른 숨'(혼 110)이 쉼터 개편 뒤 아무 효과가 없던 문제 → 보부상 환약 엽전 10 할인으로 바꿈. 로딩 팁의 옛 쉼터 문구 수정.
+- 정리: 쓰이지 않던 수련 깨치기 화면·쉼터 주모 대화 코드 삭제. 기력 판 9조각 그리기를 한 장으로 캐시.
